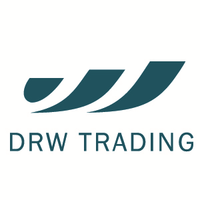
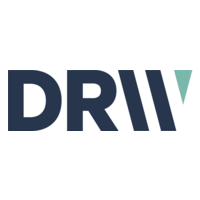
[2016-chicago] program and sponsor updates
add missing sponsor pitches and breaks to program

Joshua was missing from the organizers

add AppDynamics as the lanyard sponsor

update DRW logo (2016-chicago is the only event using this so safe to update in place)

add sponsor information and logo for OverOps

Changed region(s): [[0.03, 0.3, 0.99, 0.78]]

diff --git a/content/events/2016-chicago/program.md b/content/events/2016-chicago/program.md
@@ -50,7 +50,7 @@ type = "event"
         <time>09:15-09:45</time>
       </div>
       <div class = "col-md-6 box">
-        <a href="/events/2016-chicago/program/adam-jacob">Adam Jacob - The Evolution of Automation</a>
+        <a href="/events/2016-chicago/program/adam-jacob">Adam Jacob - The Evolution of Automation</a><br /><br />
       </div>
     </div> <!-- end timeslot div -->
     <!-- this div is repeated for each timeslot -->
@@ -68,7 +68,7 @@ type = "event"
         <time>09:55-10:25</time>
       </div>
       <div class = "col-md-6 box">
-        <a href="/events/2016-chicago/program/joel-vasallo">Joel Vasallo - The Five Phases of DevOps</a>
+        <a href="/events/2016-chicago/program/joel-vasallo">Joel Vasallo - The Five Phases of DevOps</a><br /><br />
       </div>
     </div> <!-- end timeslot div -->
     <!-- this div is repeated for each timeslot -->
@@ -135,7 +135,16 @@ type = "event"
     <!-- this div is repeated for each timeslot -->
     <div class = "row">
       <div class = "col-md-4">
-        <time>13:30-14:00</time>
+        <time>13:30-13:40</time>
+      </div>
+      <div class = "col-md-6 box">
+        Sponsors
+      </div>
+    </div> <!-- end timeslot div -->
+    <!-- this div is repeated for each timeslot -->
+    <div class = "row">
+      <div class = "col-md-4">
+        <time>13:40-14:15</time>
       </div>
       <div class = "col-md-6 box">
         <strong>Open Space</strong><br />
@@ -145,7 +154,7 @@ type = "event"
     <!-- this div is repeated for each timeslot -->
     <div class = "row">
       <div class = "col-md-4">
-        <time>14:00-14:45</time>
+        <time>14:15-15:00</time>
       </div>
       <div class = "col-md-6 box">
         <strong>Open Space</strong><br />
@@ -155,7 +164,16 @@ type = "event"
     <!-- this div is repeated for each timeslot -->
     <div class = "row">
       <div class = "col-md-4">
-        <time>15:00-15:45</time>
+        <time>15:00-15:15</time>
+      </div>
+      <div class = "col-md-6 box">
+        Break
+      </div>
+    </div> <!-- end timeslot div -->
+    <!-- this div is repeated for each timeslot -->
+    <div class = "row">
+      <div class = "col-md-4">
+        <time>15:15-16:00</time>
       </div>
       <div class = "col-md-6 box">
         <strong>Open Space</strong><br />
@@ -165,7 +183,7 @@ type = "event"
     <!-- this div is repeated for each timeslot -->
     <div class = "row">
       <div class = "col-md-4">
-        <time>16:00-16:45</time>
+        <time>16:15-17:00</time>
       </div>
       <div class = "col-md-6 box">
         <strong>Open Space</strong><br />
@@ -175,7 +193,7 @@ type = "event"
     <!-- this div is repeated for each timeslot -->
     <div class = "row">
       <div class = "col-md-4">
-        <time>16:45-17:00</time>
+        <time>17:00-17:15</time>
       </div>
       <div class = "col-md-6 box">
         Close Day &amp; Logistics
@@ -184,7 +202,7 @@ type = "event"
     <!-- this div is repeated for each timeslot -->
     <div class = "row">
       <div class = "col-md-4">
-        <time>18:00-late</time>
+        <time>18:30-21:30</time>
       </div>
       <div class = "col-md-6 box">
         <strong>Evening Event</strong>
@@ -281,7 +299,7 @@ type = "event"
         <time>11:20-11:50</time>
       </div>
       <div class = "col-md-6 box">
-        <a href="/events/2016-chicago/program/brian-henerey">Brian Henerey - Leading an Enterprise to the Public Cloud</a>
+        <a href="/events/2016-chicago/program/brian-henerey">Brian Henerey - Leading an Enterprise to the Public Cloud</a><br /><br/>
       </div>
     </div> <!-- end timeslot div -->
     <!-- this div is repeated for each timeslot -->
@@ -307,12 +325,22 @@ type = "event"
           <li><a href="/events/2016-chicago/program/michael-stahnke">Michael Stahnke - What I’ve learned interviewing more than 150 people face to face</a></li>
           <li><a href="/events/2016-chicago/program/joshua-zimmerman">Joshua Zimmerman - DevOps Deep Thoughts by Not Jack Handey</a></li>
         </ul>
+        <br/><br/><br/><br/><br/>
       </div>
     </div> <!-- end timeslot div -->
     <!-- this div is repeated for each timeslot -->
     <div class = "row">
       <div class = "col-md-4">
-        <time>13:30-14:00</time>
+        <time>13:30-13:40</time>
+      </div>
+      <div class = "col-md-6 box">
+        Sponsors
+      </div>
+    </div> <!-- end timeslot div -->
+    <!-- this div is repeated for each timeslot -->
+    <div class = "row">
+      <div class = "col-md-4">
+        <time>13:40-14:15</time>
       </div>
       <div class = "col-md-6 box">
         <strong>Open Space</strong><br />
@@ -322,7 +350,7 @@ type = "event"
     <!-- this div is repeated for each timeslot -->
     <div class = "row">
       <div class = "col-md-4">
-        <time>14:00-14:45</time>
+        <time>14:15-15:00</time>
       </div>
       <div class = "col-md-6 box">
         <strong>Open Space</strong><br />
@@ -332,7 +360,16 @@ type = "event"
     <!-- this div is repeated for each timeslot -->
     <div class = "row">
       <div class = "col-md-4">
-        <time>15:00-15:45</time>
+        <time>15:00-15:15</time>
+      </div>
+      <div class = "col-md-6 box">
+        Break
+      </div>
+    </div> <!-- end timeslot div -->
+    <!-- this div is repeated for each timeslot -->
+    <div class = "row">
+      <div class = "col-md-4">
+        <time>15:15-16:00</time>
       </div>
       <div class = "col-md-6 box">
         <strong>Open Space</strong><br />
@@ -342,7 +379,7 @@ type = "event"
     <!-- this div is repeated for each timeslot -->
     <div class = "row">
       <div class = "col-md-4">
-        <time>16:00-16:45</time>
+        <time>16:15-17:00</time>
       </div>
       <div class = "col-md-6 box">
         <strong>Open Space</strong><br />
@@ -352,7 +389,7 @@ type = "event"
     <!-- this div is repeated for each timeslot -->
     <div class = "row">
       <div class = "col-md-4">
-        <time>17:00</time>
+        <time>17:00-17:15</time>
       </div>
       <div class = "col-md-6 box">
         Close Day &amp; Farewell
